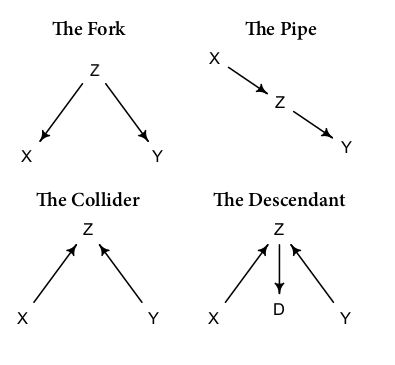
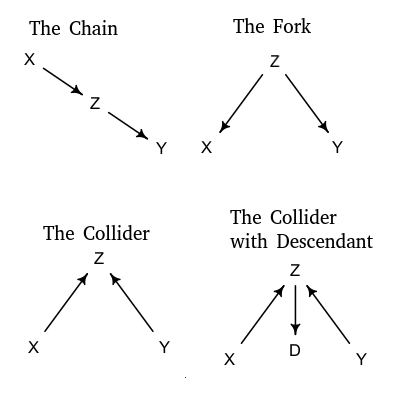
update

diff --git a/slides/4_2_ST-dag.tex b/slides/4_2_ST-dag.tex
@@ -1213,7 +1213,7 @@ plot(fo)
 
   \begin{figure}[h!]
 	\centering
-	\includegraphics[scale=0.6]{pics/collider.png}
+	\includegraphics[scale=0.61]{pics/collider.png}
 	\end{figure} 
 
 
@@ -1237,7 +1237,7 @@ plot(fo)
 \item An undirected path from $A$ to $B$ is d-connecting with respect to the evidence nodes $E$ if \textbf{every} interior node $E_i$ in the path satisfies one of these two rules:
 
 \begin{enumerate}
- \item It is a fork or a pipe and not a member of E.
+ \item It is a chain or a fork and not a member of E.
  \item It is a collider, and either $E_i$ or one of its descendants is in E.
 \end{enumerate}
  
@@ -1278,7 +1278,7 @@ plot(fo)
 
 \item This means that once we know about a middle node, we do not need to know about anything further away.
 
-\item For example, the path from $fo$ to $hb$, $fo \rightarrow do \rightarrow hb$ forms a pipe.
+\item For example, the path from $fo$ to $hb$, $fo \rightarrow do \rightarrow hb$ forms a chain.
 
 \item We already discussed that $fo$ and $hb$ are dependent from each other, but conditionally independent given $do$.
 
@@ -1352,7 +1352,7 @@ plot(fo)
 
 \item Let's consider the path from $fo$ to $bp$, $fo \rightarrow do \leftarrow bo$.
 
-\item Here we have a collider (not a fork nor a pipe), so by rule one $fo$ and $bp$ are marginally independent.
+\item Here we have a collider (not a fork nor a chain), so by rule one $fo$ and $bp$ are marginally independent.
 
 \begin{verbatim}
 > dconnected(fo,"fo","bp",c())
@@ -1470,7 +1470,7 @@ hb _||_ lo | do
 
 \item The interpretation of DAGs as carriers of independence assumptions does not necessarily imply \textbf{causation}.
 
-\item For example, for a DAG consisting only of pipes, we could reverse the order of all the arrows while retaining all the encoded independence assumptions.
+\item For example, for a DAG consisting only of chains, we could reverse the order of all the arrows while retaining all the encoded independence assumptions.
 
 \item From a causal point of view, such a change would completely change the causal order of things.
 
